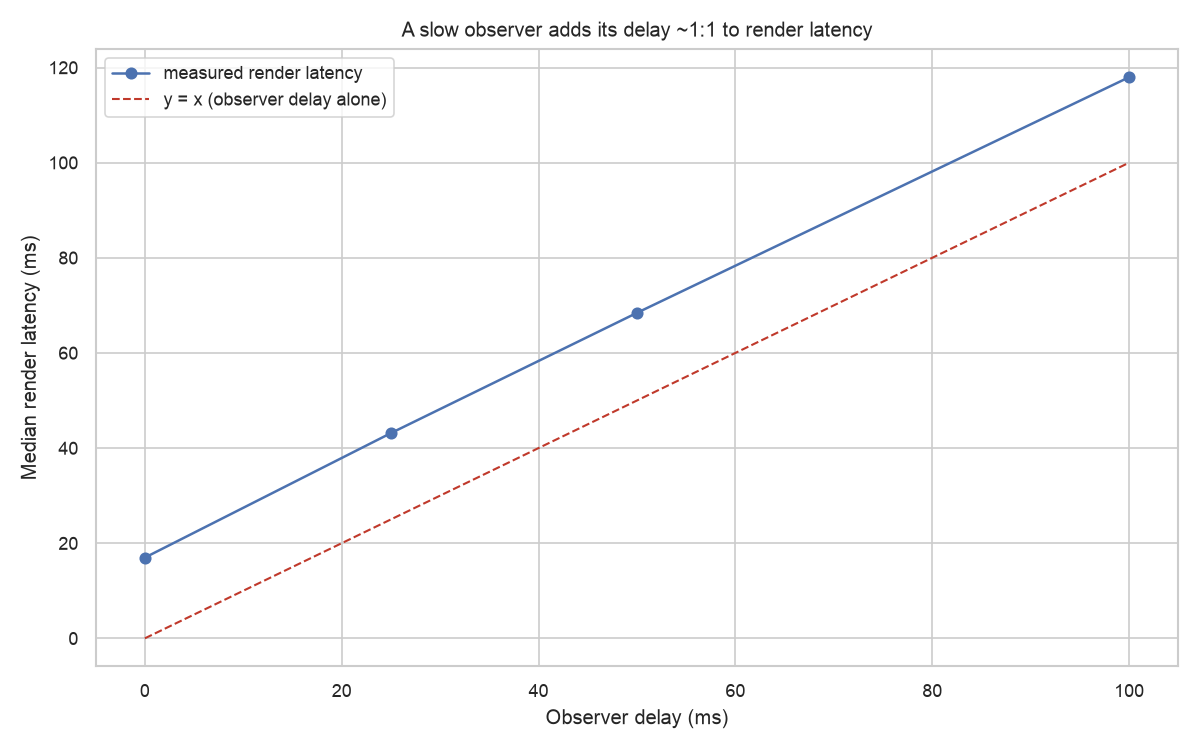
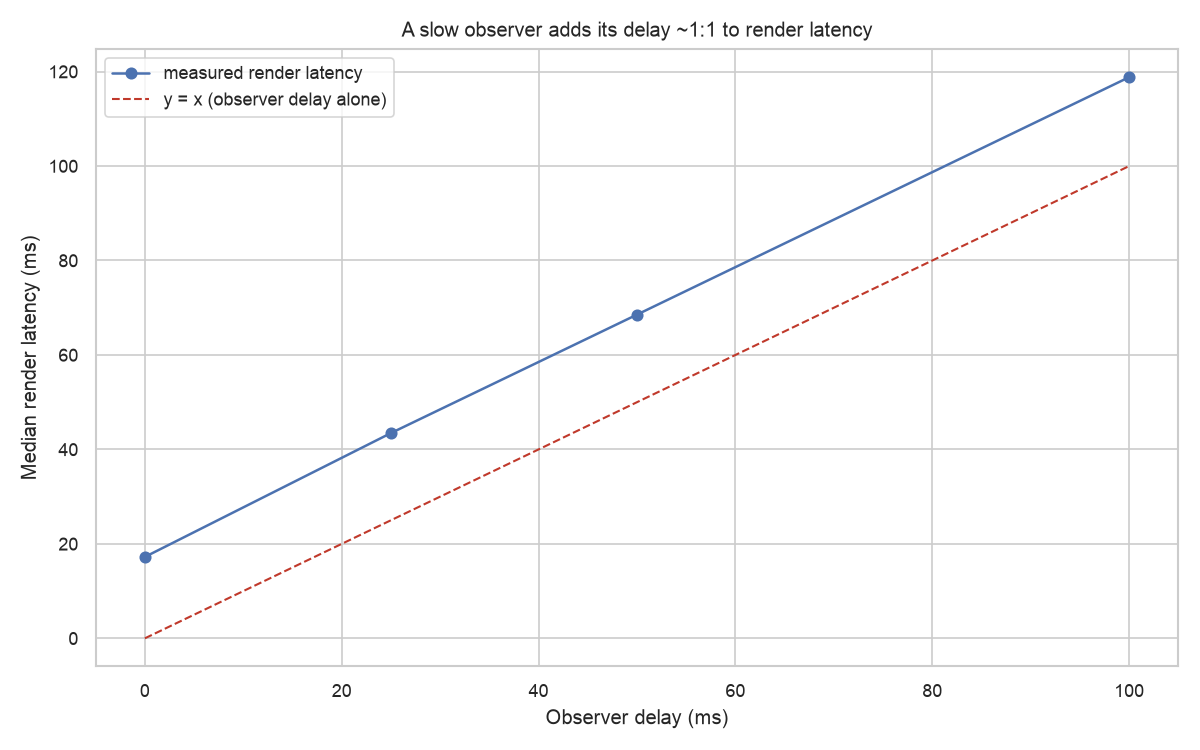
[#80] chore: re-measure after own paging

diff --git a/benchmark/python/list_smith_bench/data/utils/markdown.py b/benchmark/python/list_smith_bench/data/utils/markdown.py
@@ -272,11 +272,11 @@ def render_summary_markdown(
 
     parts.extend(
         [
-            "## Wrapping overhead: list_smith on top of ISP\n",
-            "Confirms the wrapping costs ~nothing. `observer_dispatch` is one no-op observer "
-            "callback, the null-check plus virtual call made in `_fetchPage`. "
-            "`wrapping_overhead` is the per-`getNextPageKey` cost, rebuilding the page-item-counts "
-            "and running the end policy, as loaded pages grow. Any real fetch dwarfs both.\n",
+            "## Per-page bookkeeping\n",
+            "Confirms the bookkeeping costs ~nothing. `observer_dispatch` is one no-op observer "
+            "callback, the null-check plus virtual call made on each page fetch. "
+            "`wrapping_overhead` is the end-policy check before each page, rebuilding the "
+            "page-item-counts as loaded pages grow. Any real fetch dwarfs both.\n",
             overhead_table(dataframe),
         ]
     )
@@ -288,7 +288,7 @@ def render_summary_markdown(
             "`avg`, `worst` and `p99 build` are the UI-thread build cost per frame, which is "
             "where list_smith's code runs, and `missed` counts frames over the 16.67ms budget. "
             "`isp_scroll` against `bare_listview` (same items and scroll, no list_smith) is the "
-            "attribution: that small delta is what the wrapper adds to a plain list. "
+            "attribution: that small delta is what list_smith adds to a plain list. "
             "`edit_transitions_none` makes the same edits as `_size`, `_fade` and `_slide` with no "
             "transition, so the gap is what animating them adds.\n",
             frame_scenarios_table(dataframe, "build"),

diff --git a/benchmark/reports/SUMMARY.md b/benchmark/reports/SUMMARY.md
@@ -1,6 +1,6 @@
 # Benchmark results
 
-Captured **2026-09-30** against `1.0.0` at `15aaf6e` on Dart SDK 3.13.4. N=10 iterations.
+Captured **2026-10-02** against `1.0.0` at `35b01b5` on Dart SDK 3.13.4. N=10 iterations.
 
 > Per-machine measurements, reflecting *this* machine's CPU, GPU, GC, OS scheduler and thermal state. Yours WILL differ, so capture your own baseline before measuring a delta.
 
@@ -10,10 +10,10 @@ The headline finding. list_smith invokes your observer *synchronously* on the pa
 
 | Observer delay (ms) | Median render latency (ms) | Render minus observer (ms) | N |
 |---:|---:|---:|---:|
-| 0 | 17.0 | 17.0 | 10 |
-| 25 | 43.1 | 18.1 | 10 |
-| 50 | 68.4 | 18.4 | 10 |
-| 100 | 118.0 | 18.0 | 10 |
+| 0 | 17.2 | 17.2 | 10 |
+| 25 | 43.5 | 18.5 | 10 |
+| 50 | 68.5 | 18.5 | 10 |
+| 100 | 118.8 | 18.8 | 10 |
 
 
 ![Render latency vs observer delay](observer_latency.png)
@@ -24,9 +24,9 @@ From the `sync_search_scaling` micro (AOT, `benchmark_harness`). `SyncListView` 
 
 | List size | N | Median (us) | IQR (us) | Median (ms) |
 |---:|---:|---:|---:|---:|
-| 1,000 | 10 | 371.38 | 1.32 | 0.37 |
-| 10,000 | 10 | 3,940 | 7.86 | 3.94 |
-| 100,000 | 10 | 41,315 | 78.06 | 41.31 |
+| 1,000 | 10 | 375.72 | 7.02 | 0.38 |
+| 10,000 | 10 | 3,951 | 54.82 | 3.95 |
+| 100,000 | 10 | 41,359 | 505.17 | 41.36 |
 
 
 ![Sync-search scaling](sync_search_scaling.png)
@@ -37,9 +37,9 @@ From the `bucket_by_group_scaling` micro (AOT, `benchmark_harness`). Sync groupi
 
 | List size | N | Median (us) | IQR (us) | Median (ms) |
 |---:|---:|---:|---:|---:|
-| 1,000 | 10 | 231.50 | 3.59 | 0.23 |
-| 10,000 | 10 | 2,372 | 32.50 | 2.37 |
-| 100,000 | 10 | 25,689 | 412.04 | 25.69 |
+| 1,000 | 10 | 231.02 | 1.27 | 0.23 |
+| 10,000 | 10 | 2,372 | 21.03 | 2.37 |
+| 100,000 | 10 | 26,097 | 677.44 | 26.10 |
 
 
 ![Sync grouping scaling](bucket_by_group_scaling.png)
@@ -50,37 +50,37 @@ From the `dedup_scaling` micro (AOT, `benchmark_harness`). The async list de-dup
 
 | Loaded items | N | Median (us) | IQR (us) | Median (ms) |
 |---:|---:|---:|---:|---:|
-| 1,000 | 10 | 293.86 | 0.690 | 0.29 |
-| 10,000 | 10 | 3,300 | 9.46 | 3.30 |
-| 100,000 | 10 | 40,114 | 988.92 | 40.11 |
+| 1,000 | 10 | 302.55 | 9.61 | 0.30 |
+| 10,000 | 10 | 3,388 | 86.66 | 3.39 |
+| 100,000 | 10 | 39,781 | 2,306 | 39.78 |
 
 
 ![De-dup scaling](dedup_scaling.png)
 
-## Wrapping overhead: list_smith on top of ISP
+## Per-page bookkeeping
 
-Confirms the wrapping costs ~nothing. `observer_dispatch` is one no-op observer callback, the null-check plus virtual call made in `_fetchPage`. `wrapping_overhead` is the per-`getNextPageKey` cost, rebuilding the page-item-counts and running the end policy, as loaded pages grow. Any real fetch dwarfs both.
+Confirms the bookkeeping costs ~nothing. `observer_dispatch` is one no-op observer callback, the null-check plus virtual call made on each page fetch. `wrapping_overhead` is the end-policy check before each page, rebuilding the page-item-counts as loaded pages grow. Any real fetch dwarfs both.
 
 | Micro | Metric | Median (us) |
 |---|---|---:|
 | `observer_dispatch` | us / dispatch | 0.011 |
-| `wrapping_overhead` (1 page) | us / key | 0.563 |
-| `wrapping_overhead` (10 pages) | us / key | 1.31 |
-| `wrapping_overhead` (100 pages) | us / key | 8.09 |
+| `wrapping_overhead` (1 page) | us / key | 0.554 |
+| `wrapping_overhead` (10 pages) | us / key | 1.25 |
+| `wrapping_overhead` (100 pages) | us / key | 7.06 |
 
 ## UI scenarios: per-frame build cost
 
-From the profile-mode `integration_test` scenarios, real frames on this machine. `avg`, `worst` and `p99 build` are the UI-thread build cost per frame, which is where list_smith's code runs, and `missed` counts frames over the 16.67ms budget. `isp_scroll` against `bare_listview` (same items and scroll, no list_smith) is the attribution: that small delta is what the wrapper adds to a plain list. `edit_transitions_none` makes the same edits as `_size`, `_fade` and `_slide` with no transition, so the gap is what animating them adds.
+From the profile-mode `integration_test` scenarios, real frames on this machine. `avg`, `worst` and `p99 build` are the UI-thread build cost per frame, which is where list_smith's code runs, and `missed` counts frames over the 16.67ms budget. `isp_scroll` against `bare_listview` (same items and scroll, no list_smith) is the attribution: that small delta is what list_smith adds to a plain list. `edit_transitions_none` makes the same edits as `_size`, `_fade` and `_slide` with no transition, so the gap is what animating them adds.
 
 | Scenario | Frames | Avg build (ms) | Worst build (ms) | p99 build (ms) | Missed |
 |---|---:|---:|---:|---:|---:|
-| `bare_listview` | 610 | 0.56 | 1.81 | 1.47 | 0 |
-| `cri_refresh` | 849 | 0.40 | 1.27 | 1.19 | 0 |
-| `edit_transitions_fade` | 500 | 0.35 | 2.01 | 1.88 | 0 |
-| `edit_transitions_none` | 500 | 0.25 | 2.13 | 1.92 | 0 |
-| `edit_transitions_size` | 500 | 0.42 | 1.95 | 1.39 | 0 |
-| `edit_transitions_slide` | 500 | 0.40 | 2.24 | 1.99 | 0 |
-| `isp_scroll` | 610 | 0.61 | 2.34 | 1.46 | 0 |
+| `bare_listview` | 610 | 0.61 | 2.08 | 1.77 | 0 |
+| `cri_refresh` | 850 | 0.44 | 1.51 | 1.09 | 0 |
+| `edit_transitions_fade` | 500 | 0.34 | 2.23 | 1.58 | 0 |
+| `edit_transitions_none` | 500 | 0.29 | 2.02 | 1.61 | 0 |
+| `edit_transitions_size` | 500 | 0.48 | 1.87 | 1.61 | 0 |
+| `edit_transitions_slide` | 500 | 0.39 | 2.52 | 1.64 | 0 |
+| `isp_scroll` | 610 | 0.68 | 2.57 | 1.85 | 0 |
 
 
 ![Per-frame build cost](frame_costs.png)
@@ -91,13 +91,13 @@ The same frames on the raster thread, which draws what the build produced. `miss
 
 | Scenario | Frames | Avg raster (ms) | Worst raster (ms) | p99 raster (ms) | Missed |
 |---|---:|---:|---:|---:|---:|
-| `bare_listview` | 610 | 1.01 | 10.45 | 2.95 | 0 |
-| `cri_refresh` | 849 | 1.16 | 91.99 | 2.34 | 1 |
-| `edit_transitions_fade` | 500 | 1.19 | 9.62 | 1.64 | 0 |
-| `edit_transitions_none` | 500 | 0.93 | 9.36 | 5.45 | 0 |
-| `edit_transitions_size` | 500 | 1.04 | 9.01 | 1.52 | 0 |
-| `edit_transitions_slide` | 500 | 1.25 | 10.41 | 5.88 | 0 |
-| `isp_scroll` | 610 | 1.07 | 6.74 | 2.99 | 0 |
+| `bare_listview` | 610 | 1.10 | 9.40 | 3.29 | 0 |
+| `cri_refresh` | 850 | 1.07 | 12.32 | 3.09 | 0 |
+| `edit_transitions_fade` | 500 | 1.13 | 10.37 | 1.92 | 0 |
+| `edit_transitions_none` | 500 | 1.12 | 14.11 | 5.00 | 0 |
+| `edit_transitions_size` | 500 | 1.08 | 8.61 | 1.77 | 0 |
+| `edit_transitions_slide` | 500 | 1.18 | 10.73 | 5.69 | 0 |
+| `isp_scroll` | 610 | 1.11 | 11.35 | 3.24 | 0 |
 
 
 ![Per-frame raster cost](frame_raster_costs.png)

diff --git a/README.md b/README.md
@@ -765,13 +765,13 @@ Measured on one machine (yours will differ), from the committed
 
 | What                                                 | Cost                                                                          |
 |------------------------------------------------------|-------------------------------------------------------------------------------|
-| Scrolling                                            | within ~0.05 ms/frame of a plain `ListView.builder`, neither dropping a frame |
+| Scrolling                                            | within ~0.07 ms/frame of a plain `ListView.builder`, neither dropping a frame |
 | Per-page bookkeeping (end policy, observer dispatch) | sub-microsecond to a few microseconds                                         |
 | A full pull-to-refresh cycle                         | ~0.4 ms/frame to build, none over the 16.67 ms budget                         |
-| Animating edits (size, fade or slide)                | +0.1 to 0.3 ms/frame over the same edits unanimated, none over budget         |
+| Animating edits (size, fade or slide)                | +0.05 to 0.2 ms/frame over the same edits unanimated, none over budget        |
 | Sync search, per committed query                     | ~0.4 ms at 1k items, ~4 ms at 10k, ~41 ms at 100k                             |
 | Sync grouping, per committed query                   | ~0.2 ms at 1k, ~2.4 ms at 10k, ~26 ms at 100k                                 |
-| De-dup by id, per page arriving                      | ~0.3 ms at 1k loaded, ~3.3 ms at 10k, ~40 ms at 100k                          |
+| De-dup by id, per page arriving                      | ~0.3 ms at 1k loaded, ~3.4 ms at 10k, ~40 ms at 100k                          |
 | A 50 ms observer callback                            | pushes render latency to ~68 ms                                               |
 
 Sync search and grouping are O(n) per query and cross the frame budget around 100k items, so lean
